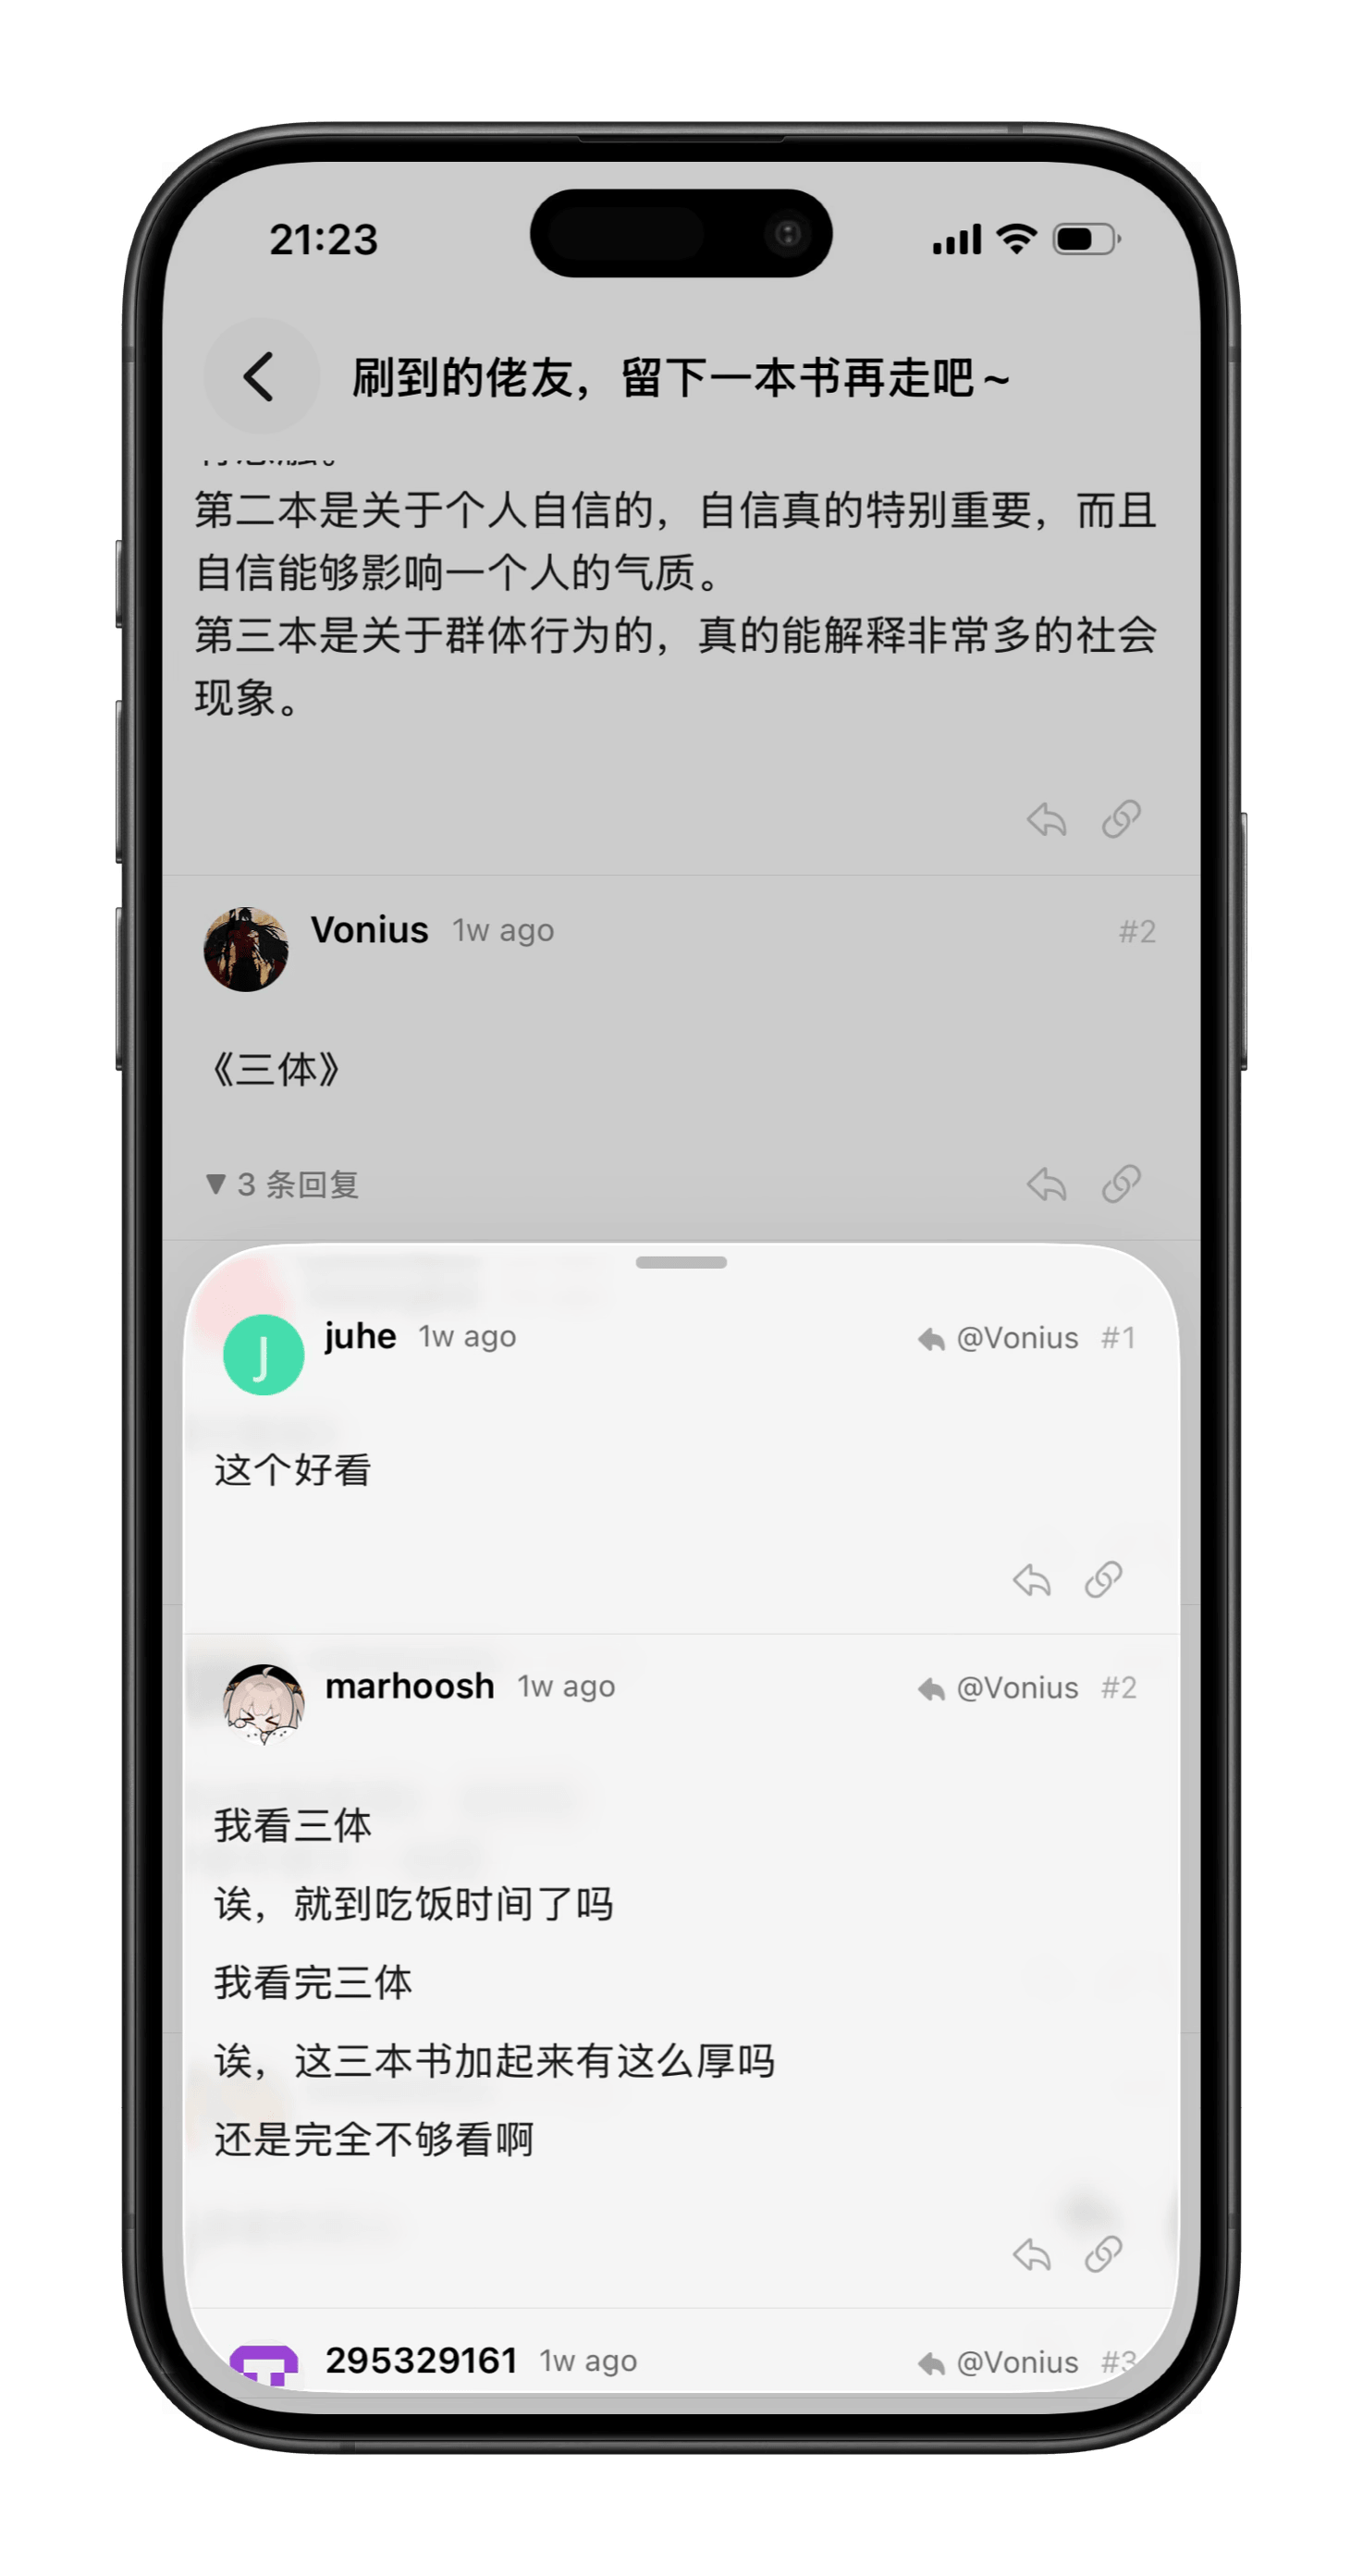
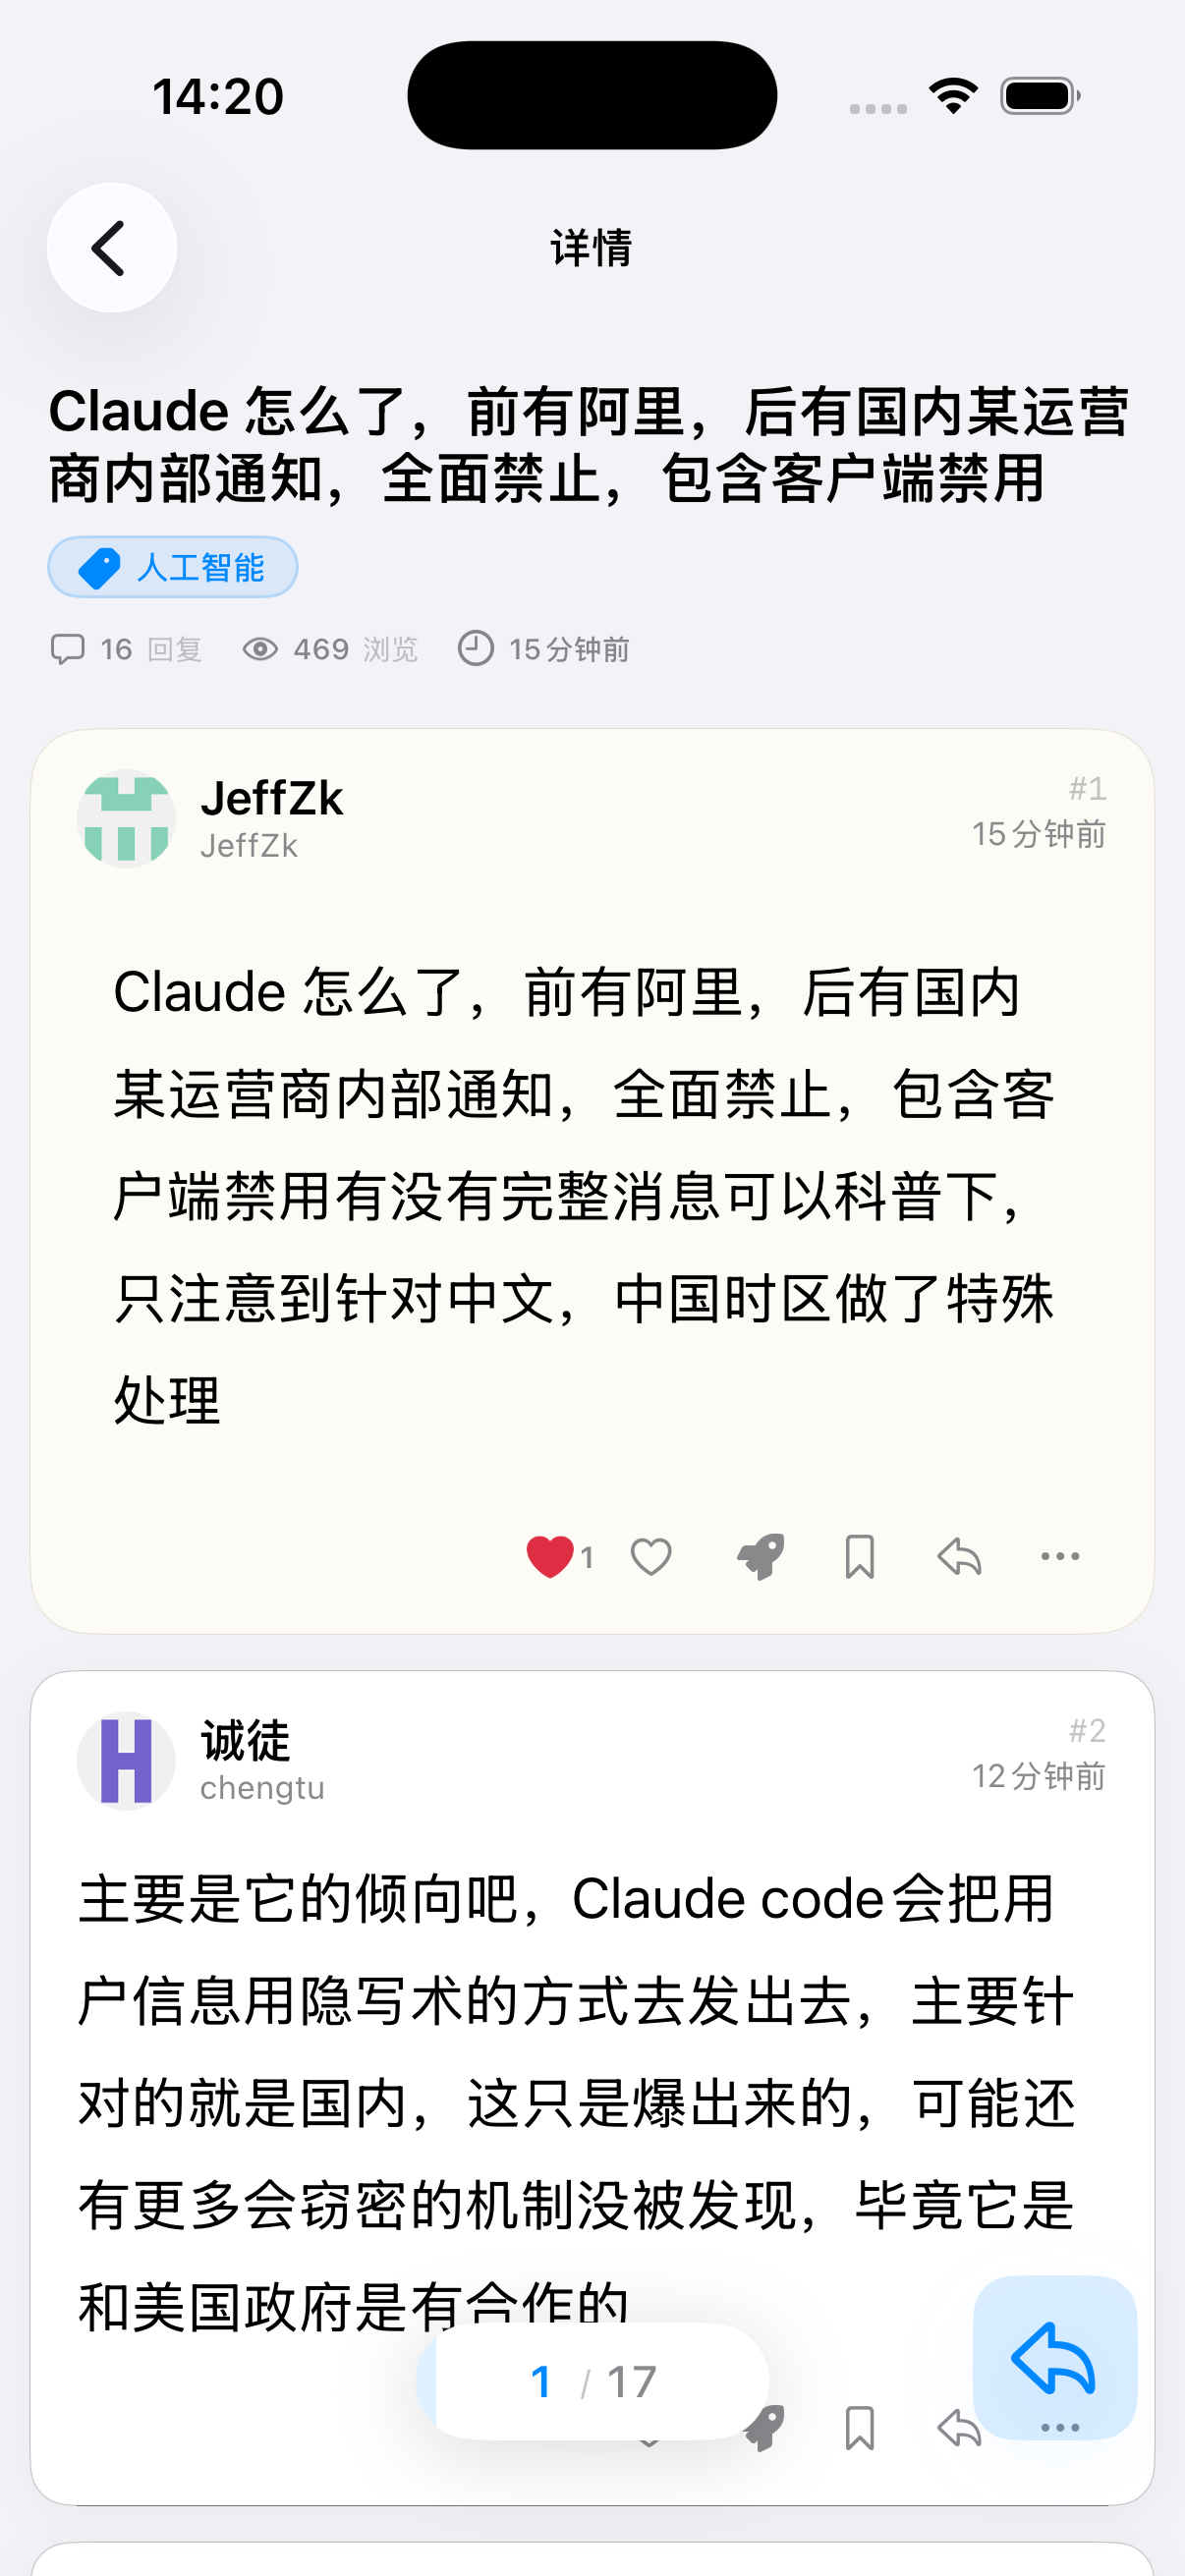
Update README for DexoFlux

diff --git a/README.zh-CN.md b/README.zh-CN.md
@@ -1,10 +1,10 @@
 <p align="center">
-  <img src="assets/icon.png" width="128" height="128" alt="Dexo App Icon" />
+  <img src="assets/icon.png" width="128" height="128" alt="DexoFlux App Icon" />
 </p>
 
-<h1 align="center">Dexo</h1>
+<h1 align="center">DexoFlux</h1>
 
-<p align="center">一个原生 iOS Discourse 论坛客户端，使用 UIKit + Swift 构建。</p>
+<p align="center">一个原生 iOS Linux 论坛客户端，使用 UIKit + Swift 构建。</p>
 
 <p align="center">
   <a href="README.md">English</a> | 中文
@@ -12,22 +12,20 @@
 
 ## 截图
 
-| 论坛首页  | 帖子详情 | 板块分类 |
+| 论坛首页 | 帖子详情 | 我的 |
 |:---:|:---:|:---:|
-| ![论坛首页](assets/home.png) | ![帖子详情](assets/detail.png) | ![板块分类](assets/cate.png) |
-
+| ![论坛首页](assets/home.png) | ![帖子详情](assets/detail.png) | ![我的](assets/me.png) |
 
 ## 功能
 
-- [x] **多论坛管理** — 添加、切换、删除多个 Discourse 实例
-- [x] **帖子浏览** — 最新 / 热门话题列表，无限滚动加载
-- [x] **分类 & 标签** — 按板块或标签浏览话题
-- [x] **帖子详情** — HTML 内容渲染、图片查看、代码块展示、折叠内容
-- [x] **回复** — 回复话题或针对特定楼层回复
-- [x] **安全认证** — Web 会话登录，并将 Cookie 复用于原生请求
-- [x] **外观设置** — 跟随系统 / 浅色 / 深色模式
-- [ ] **通知 & 私信** — 查看论坛通知和私信
-- [ ] **发贴** — 发布论坛帖子
+- [x] **Linux.do 浏览** — 原生浏览最新话题、热门话题、板块、标签和搜索结果。
+- [x] **帖子详情** — 原生渲染 cooked HTML，支持正文、图片、引用、代码块、投票、折叠、Onebox、表格、视频和时间线。
+- [x] **回复与互动** — 支持回复主题、回复楼层、点赞，以及 Linux.do 表情 / boost 互动。
+- [x] **图片查看** — 内容区和评论区多图预览，支持左右滑动、图片数量、分享、保存和关闭。
+- [x] **我的页面** — 个人看板、头像 / 名称缓存、书签、浏览历史、通知和私信。
+- [x] **安全认证** — Web 登录、Cookie 复用原生请求，并支持全局 Cloudflare 盾牌处理。
+- [x] **外观设置** — 默认、小红书、Telegram、护眼主题色，以及应用图标、自定义字体、全局字号、内容区字号和底栏设置。
+- [x] **数据管理** — 查看并清理浏览数据、图片缓存、Cookie 和应用存储。
 
 ## 技术栈
 
@@ -36,30 +34,33 @@
 | 语言 | Swift 5 |
 | UI 框架 | UIKit |
 | 最低版本 | iOS 15.0 |
-| 架构 | MVVM + `DexoObservableObject` |
+| 架构 | MVVM 风格 ViewModel + `DexoObservableObject` / 可观察 ViewController |
 | 构建工具 | [Tuist](https://tuist.dev) |
-| 数据库 | SQLite ([GRDB](https://github.com/groue/GRDB.swift)) |
-| 网络 | [Alamofire](https://github.com/Alamofire/Alamofire) |
-| 图片加载 | [SDWebImage](https://github.com/SDWebImage/SDWebImage) |
-| 图片查看 | [Lightbox](https://github.com/hyperoslo/Lightbox) |
+| 网络 | [Alamofire](https://github.com/Alamofire/Alamofire)、自定义 Router、Cookie 复用请求、DoH URLProtocol |
+| Web 会话 | `WKWebView` 负责登录、Cloudflare 验证和会话刷新 |
+| 数据库 | SQLite via [GRDB](https://github.com/groue/GRDB.swift) |
+| HTML 渲染 | 本地 `CookedHTML` 包，底层使用 [SwiftSoup](https://github.com/scinfu/SwiftSoup) |
+| 图片加载 | [SDWebImage](https://github.com/SDWebImage/SDWebImage) + [SDWebImageSVGCoder](https://github.com/SDWebImage/SDWebImageSVGCoder) |
+| 图片查看 | [Lightbox](https://github.com/hyperoslo/Lightbox) + 自定义多图预览 UI |
+| 持久化 | Keychain、Cookie、本地设置、GRDB 模型 |
 
 ## 快速开始
 
 ### 前置要求
 
 - Xcode 16+
-- [mise](https://mise.jdx.dev) (工具版本管理)
+- [mise](https://mise.jdx.dev) 用于工具版本管理
 
 ### 构建
 
 ```bash
-# 安装工具、拉取依赖、生成 Xcode 工程（一步到位）
+# 安装工具、拉取依赖、生成 Xcode 工程
 make setup
 
-# 后续只需重新生成工程
+# 只重新生成工程
 make generate
 
-# 清理
+# 清理生成产物
 make clean
 ```
 
@@ -67,31 +68,48 @@ make clean
 
 ## 项目结构
 
-```
+```text
 dexo/
+├── AppDelegate.swift
 ├── Core/
-│   ├── Auth/           # 认证流程、Keychain、RSA 加解密
-│   ├── Networking/     # DoH URLProtocol
-│   ├── Observable/     # ObservableViewController 基类
-│   └── Settings/       # 应用偏好设置
-├── Database/           # GRDB 数据库管理 & 数据模型
+│   ├── Auth/                 # Web 登录、Cookie、Keychain、会话刷新
+│   ├── ImageLoading/         # 头像和图片加载工具
+│   ├── Observable/           # 可观察基类控制器和状态绑定
+│   └── Settings/             # 应用设置、主题、语言、字体、底栏偏好
+├── Database/
+│   └── Models/               # GRDB 数据库管理和持久化模型
 ├── Features/
-│   ├── ForumList/      # 论坛列表
 │   ├── ForumDetail/
-│   │   ├── Home/       # 最新 / 热门话题
-│   │   ├── Categories/ # 板块分类
-│   │   ├── Tags/       # 标签话题
-│   │   ├── Messages/   # 私信
-│   │   ├── Notifications/ # 通知
-│   │   └── TopicDetail/   # 帖子详情 & 回复
-│   └── Settings/       # 设置页
+│   │   ├── Home/             # 话题列表和话题卡片
+│   │   ├── Categories/       # 板块浏览
+│   │   ├── Tags/             # 标签浏览
+│   │   ├── TopicDetail/      # 原生帖子详情渲染、回复、图片预览、投票
+│   │   ├── Me/               # 个人资料、书签、历史和看板
+│   │   ├── Notifications/    # 论坛通知
+│   │   ├── Messages/         # 私信
+│   │   └── Search/           # 搜索和结果页
+│   ├── Main/                 # 主底栏容器和入口路由
+│   └── Settings/             # 外观、阅读、数据、网络、底栏设置
 ├── Networking/
-│   ├── DiscourseAPI.swift    # API 客户端
-│   ├── DiscourseRouter.swift # 路由定义
-│   └── Models/               # API 响应模型
-└── Assets.xcassets/
+│   ├── DoH/                  # DNS-over-HTTPS URLProtocol 支持
+│   ├── Models/               # API 响应模型
+│   ├── DiscourseAPI.swift    # Linux.do / Discourse API 客户端
+│   └── DiscourseRouter.swift # 路由定义
+├── Assets.xcassets/          # App 运行时资源
+└── Localizable.xcstrings     # 简体中文、繁体中文和英文文案
+
+Packages/
+└── CookedHTML/               # 本地 HTML 解析和原生渲染模型包
+
+assets/                       # README 截图和仓库图片
 ```
 
-## 友链
+## 致谢
 
-- **[Linux.do](https://linux.do)** — 学 AI，上 L 站
+DexoFlux 是在 Dexo 的原生 UIKit 基础上继续探索的二开项目，同时参考了 FluxDo 在交互节奏和视觉风格上的方向。Dexo 和 FluxDo 都是很优秀的应用：前者提供了扎实的 iOS 原生架构基础，后者带来了更顺滑、更现代的论坛浏览体验。DexoFlux 希望把两者的优点揉在一起，做成更适合 Linux.do 的原生客户端。
+
+## 项目链接
+
+- **[Linux.do](https://linux.do)** — DexoFlux 面向的社区。
+- **[Eilgnaw/dexo](https://github.com/Eilgnaw/dexo)** — Dexo。
+- **[Lingyan000/fluxdo](https://github.com/Lingyan000/fluxdo)** — FluxDo。

diff --git a/README.md b/README.md
@@ -1,10 +1,10 @@
 <p align="center">
-  <img src="assets/icon.png" width="128" height="128" alt="Dexo App Icon" />
+  <img src="assets/icon.png" width="128" height="128" alt="DexoFlux App Icon" />
 </p>
 
-<h1 align="center">Dexo</h1>
+<h1 align="center">DexoFlux</h1>
 
-<p align="center">A native iOS client for Discourse forums, built with UIKit + Swift.</p>
+<p align="center">A native iOS Linux.do forum client, built with UIKit + Swift.</p>
 
 <p align="center">
   English | <a href="README.zh-CN.md">中文</a>
@@ -12,22 +12,20 @@
 
 ## Screenshots
 
-| Home  | Topic Detail | Categories |
+| Home | Topic Detail | Me |
 |:---:|:---:|:---:|
-| ![Home](assets/home.png) | ![Topic Detail](assets/detail.png) | ![Categories](assets/cate.png) |
-
+| ![Home](assets/home.png) | ![Topic Detail](assets/detail.png) | ![Me](assets/me.png) |
 
 ## Features
 
-- [x] **Multi-Forum Management** — Add, switch, and remove multiple Discourse instances
-- [x] **Topic Browsing** — Latest / Top topic lists with infinite scrolling
-- [x] **Categories & Tags** — Browse topics by category or tag
-- [x] **Topic Detail** — HTML content rendering, image viewer, code blocks, collapsible sections
-- [x] **Reply** — Reply to topics or to specific posts
-- [x] **Secure Auth** — Web session login with cookie reuse for native requests
-- [x] **Appearance** — System / Light / Dark mode
-- [ ] **Notifications & Messages** — View forum notifications and private messages
-- [ ] **Create Topic** — Publish new forum topics
+- [x] **Linux.do Browsing** — Browse latest topics, top topics, categories, tags, and search results in a native UIKit experience.
+- [x] **Topic Detail** — Render cooked HTML with native text, images, quotes, code blocks, polls, spoilers, oneboxes, tables, videos, and timeline navigation.
+- [x] **Replies & Reactions** — Reply to topics or posts, like posts, and use Linux.do emoji / boost interactions.
+- [x] **Image Viewer** — Preview topic and comment images with multi-image swipe, image count, share, save, and close controls.
+- [x] **Account & Me** — Profile overview, avatar / username cache, bookmarks, browsing history, notifications, and private messages.
+- [x] **Secure Auth** — Web login, cookie reuse for native requests, and global Cloudflare challenge handling.
+- [x] **Appearance Settings** — Default, eye-care, Xiaohongshu, and Telegram theme colors, plus app icon, custom fonts, global font size, content font size, and tab bar customization.
+- [x] **Data Management** — Cache visibility and cleanup for browsing data, images, cookies, and app storage.
 
 ## Tech Stack
 
@@ -36,19 +34,22 @@
 | Language | Swift 5 |
 | UI Framework | UIKit |
 | Minimum Target | iOS 15.0 |
-| Architecture | MVVM + `DexoObservableObject` |
+| Architecture | MVVM-style view models + `DexoObservableObject` / observable view controllers |
 | Build Tool | [Tuist](https://tuist.dev) |
-| Database | SQLite ([GRDB](https://github.com/groue/GRDB.swift)) |
-| Networking | [Alamofire](https://github.com/Alamofire/Alamofire) |
-| Image Loading | [SDWebImage](https://github.com/SDWebImage/SDWebImage) |
-| Image Viewer | [Lightbox](https://github.com/hyperoslo/Lightbox) |
+| Networking | [Alamofire](https://github.com/Alamofire/Alamofire), custom router, cookie-backed requests, and DoH URLProtocol |
+| Web Session | `WKWebView` for login, Cloudflare verification, and session refresh |
+| Database | SQLite via [GRDB](https://github.com/groue/GRDB.swift) |
+| HTML Rendering | Local `CookedHTML` package backed by [SwiftSoup](https://github.com/scinfu/SwiftSoup) |
+| Image Loading | [SDWebImage](https://github.com/SDWebImage/SDWebImage) + [SDWebImageSVGCoder](https://github.com/SDWebImage/SDWebImageSVGCoder) |
+| Image Viewer | [Lightbox](https://github.com/hyperoslo/Lightbox) plus custom multi-image preview UI |
+| Persistence | Keychain, cookies, local settings, and GRDB-backed models |
 
 ## Getting Started
 
 ### Prerequisites
 
 - Xcode 16+
-- [mise](https://mise.jdx.dev) (runtime version manager)
+- [mise](https://mise.jdx.dev) for tool version management
 
 ### Build
 
@@ -59,7 +60,7 @@ make setup
 # Re-generate the project only
 make generate
 
-# Clean
+# Clean generated artifacts
 make clean
 ```
 
@@ -67,31 +68,48 @@ Open the generated `dexo.xcodeproj`, select your development team, then build an
 
 ## Project Structure
 
-```
+```text
 dexo/
+├── AppDelegate.swift
 ├── Core/
-│   ├── Auth/           # Auth flow, Keychain, RSA encryption
-│   ├── Networking/     # DoH URLProtocol
-│   ├── Observable/     # ObservableViewController base class
-│   └── Settings/       # App preferences
-├── Database/           # GRDB database manager & models
+│   ├── Auth/                 # Web login, cookie store, Keychain, session refresh
+│   ├── ImageLoading/         # Avatar and image loading helpers
+│   ├── Observable/           # Observable base controllers and state binding
+│   └── Settings/             # App settings, theme, language, fonts, tab bar preferences
+├── Database/
+│   └── Models/               # GRDB database manager and persisted models
 ├── Features/
-│   ├── ForumList/      # Forum list
 │   ├── ForumDetail/
-│   │   ├── Home/       # Latest / Top topics
-│   │   ├── Categories/ # Category browsing
-│   │   ├── Tags/       # Tag-based browsing
-│   │   ├── Messages/   # Private messages
-│   │   ├── Notifications/ # Notifications
-│   │   └── TopicDetail/   # Topic detail & replies
-│   └── Settings/       # Settings
+│   │   ├── Home/             # Topic lists and topic cards
+│   │   ├── Categories/       # Category browsing
+│   │   ├── Tags/             # Tag browsing
+│   │   ├── TopicDetail/      # Native topic detail renderer, replies, image preview, polls
+│   │   ├── Me/               # Profile, bookmarks, history, and account dashboard
+│   │   ├── Notifications/    # Forum notifications
+│   │   ├── Messages/         # Private messages
+│   │   └── Search/           # Search UI and results
+│   ├── Main/                 # Main tab container and entry routing
+│   └── Settings/             # Appearance, reading, data, network, and tab bar settings
 ├── Networking/
-│   ├── DiscourseAPI.swift    # API client
-│   ├── DiscourseRouter.swift # Route definitions
-│   └── Models/               # API response models
-└── Assets.xcassets/
+│   ├── DoH/                  # DNS-over-HTTPS URLProtocol support
+│   ├── Models/               # API response models
+│   ├── DiscourseAPI.swift    # Linux.do / Discourse API client
+│   └── DiscourseRouter.swift # Route definitions
+├── Assets.xcassets/          # Runtime app assets
+└── Localizable.xcstrings     # Simplified Chinese, Traditional Chinese, and English strings
+
+Packages/
+└── CookedHTML/               # Local HTML parser / native rendering model package
+
+assets/                       # README screenshots and repository images
 ```
 
-## Links
+## Acknowledgements
 
-- **[Linux.do](https://linux.do)**
+DexoFlux is a second-stage project built on the native UIKit foundation of Dexo, while also taking visual and interaction inspiration from FluxDo. Dexo and FluxDo are both excellent apps: Dexo provides a solid native iOS architecture, and FluxDo shows a smoother, more polished direction for forum reading. DexoFlux tries to bring those strengths together and reshape the experience into a Linux.do-focused native client.
+
+## Project Links
+
+- **[Linux.do](https://linux.do)** — The community DexoFlux is built for.
+- **[Eilgnaw/dexo](https://github.com/Eilgnaw/dexo)** — Dexo.
+- **[Lingyan000/fluxdo](https://github.com/Lingyan000/fluxdo)** — FluxDo.